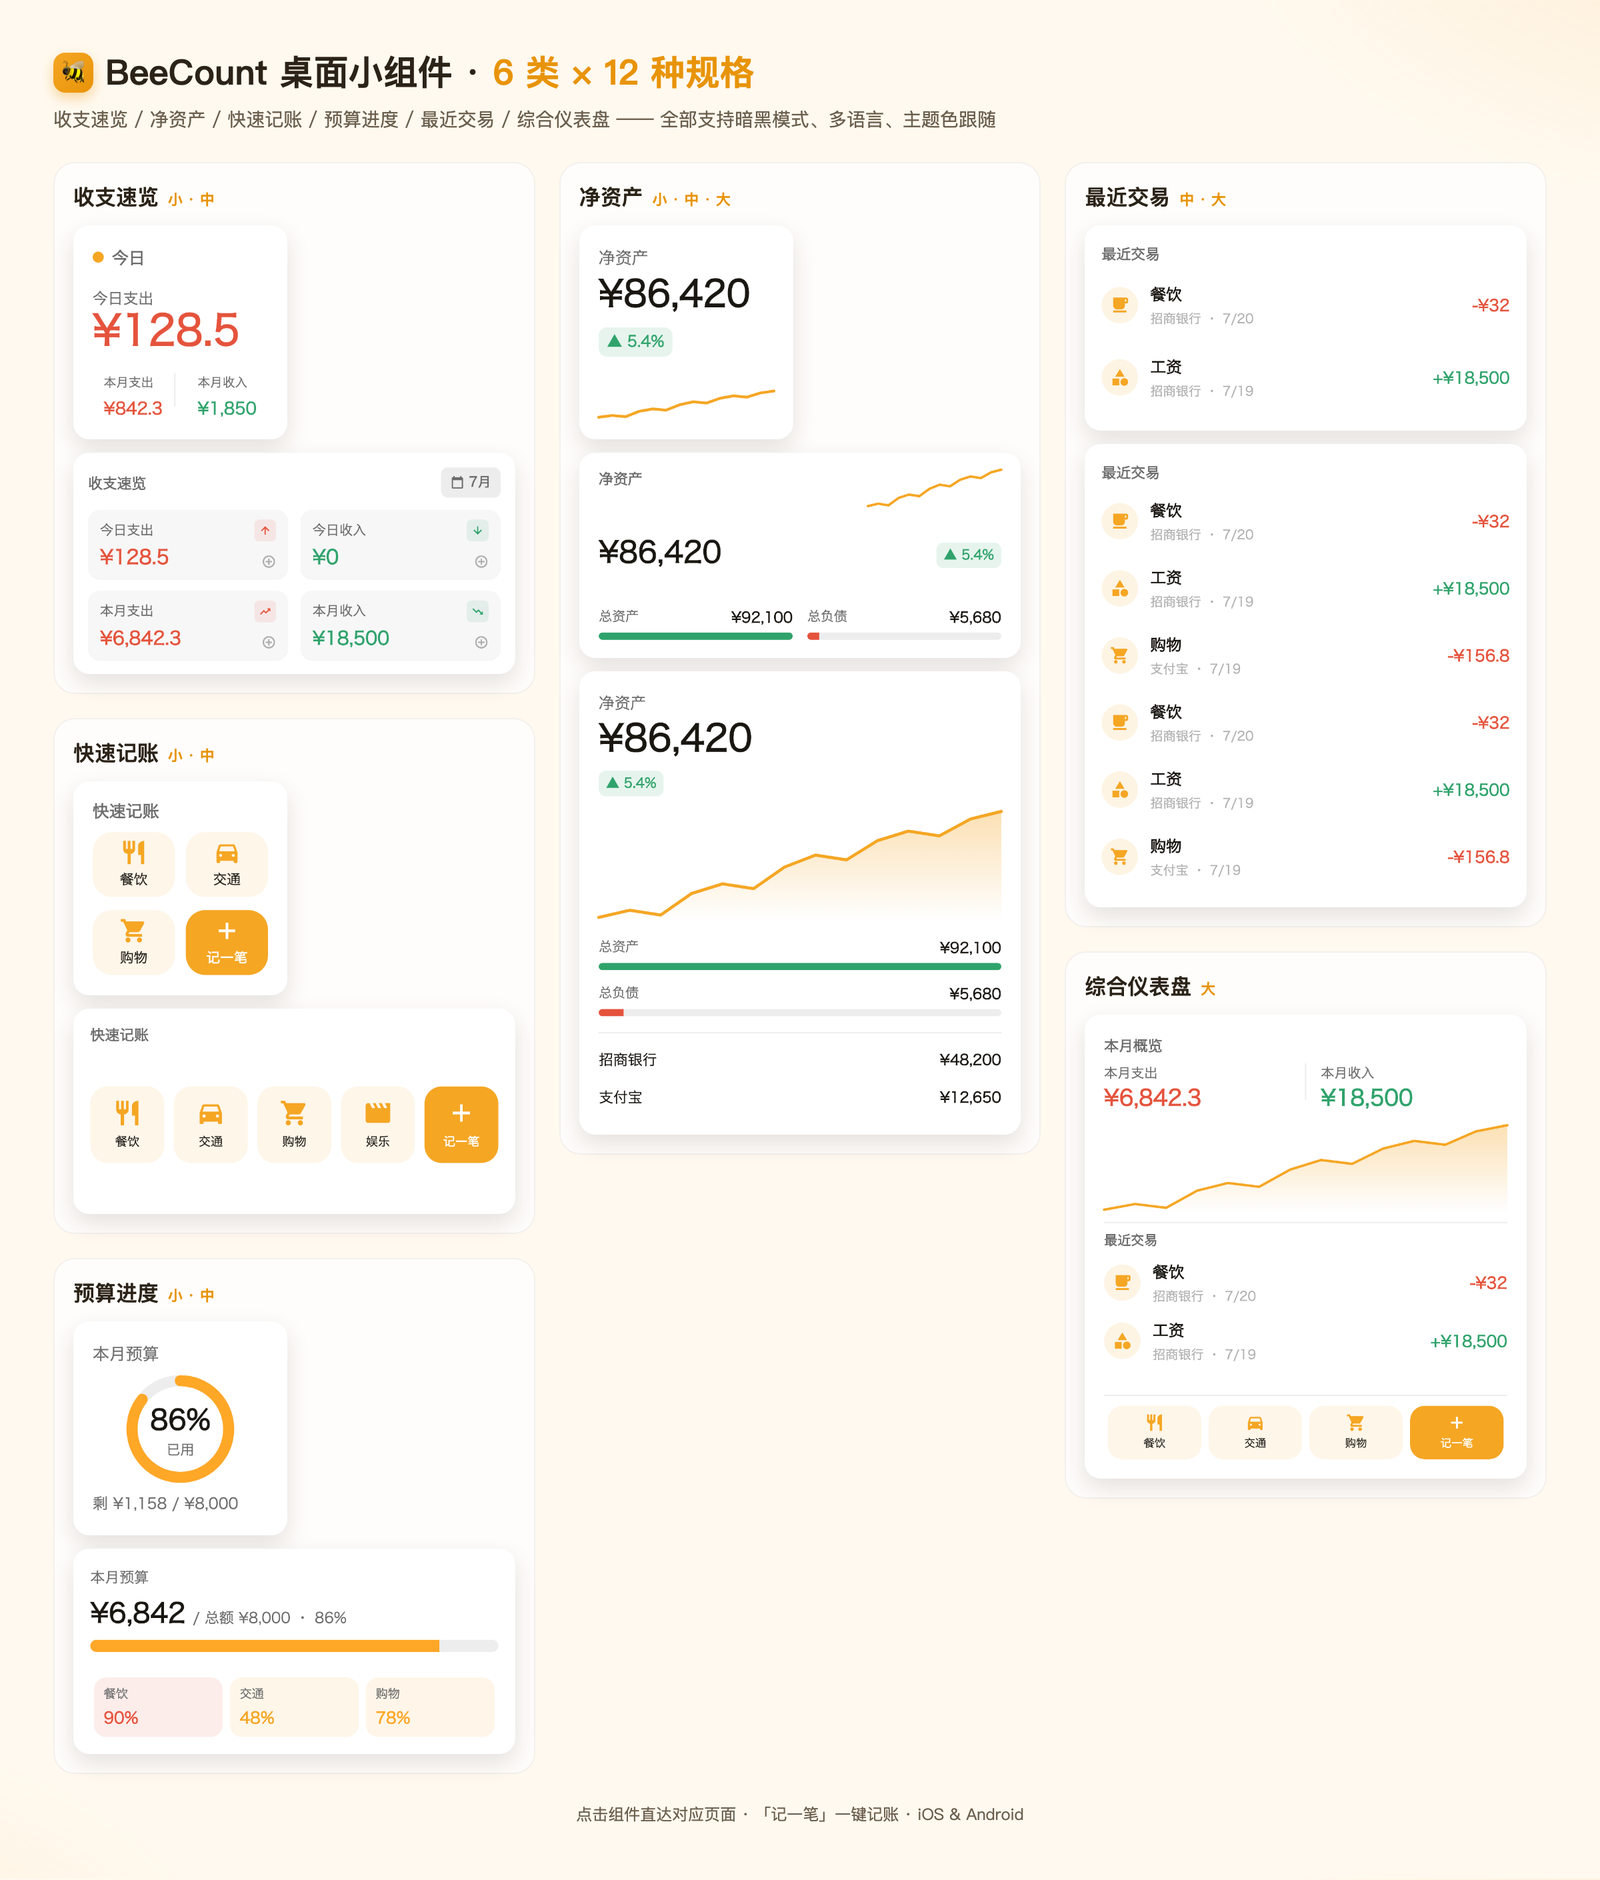
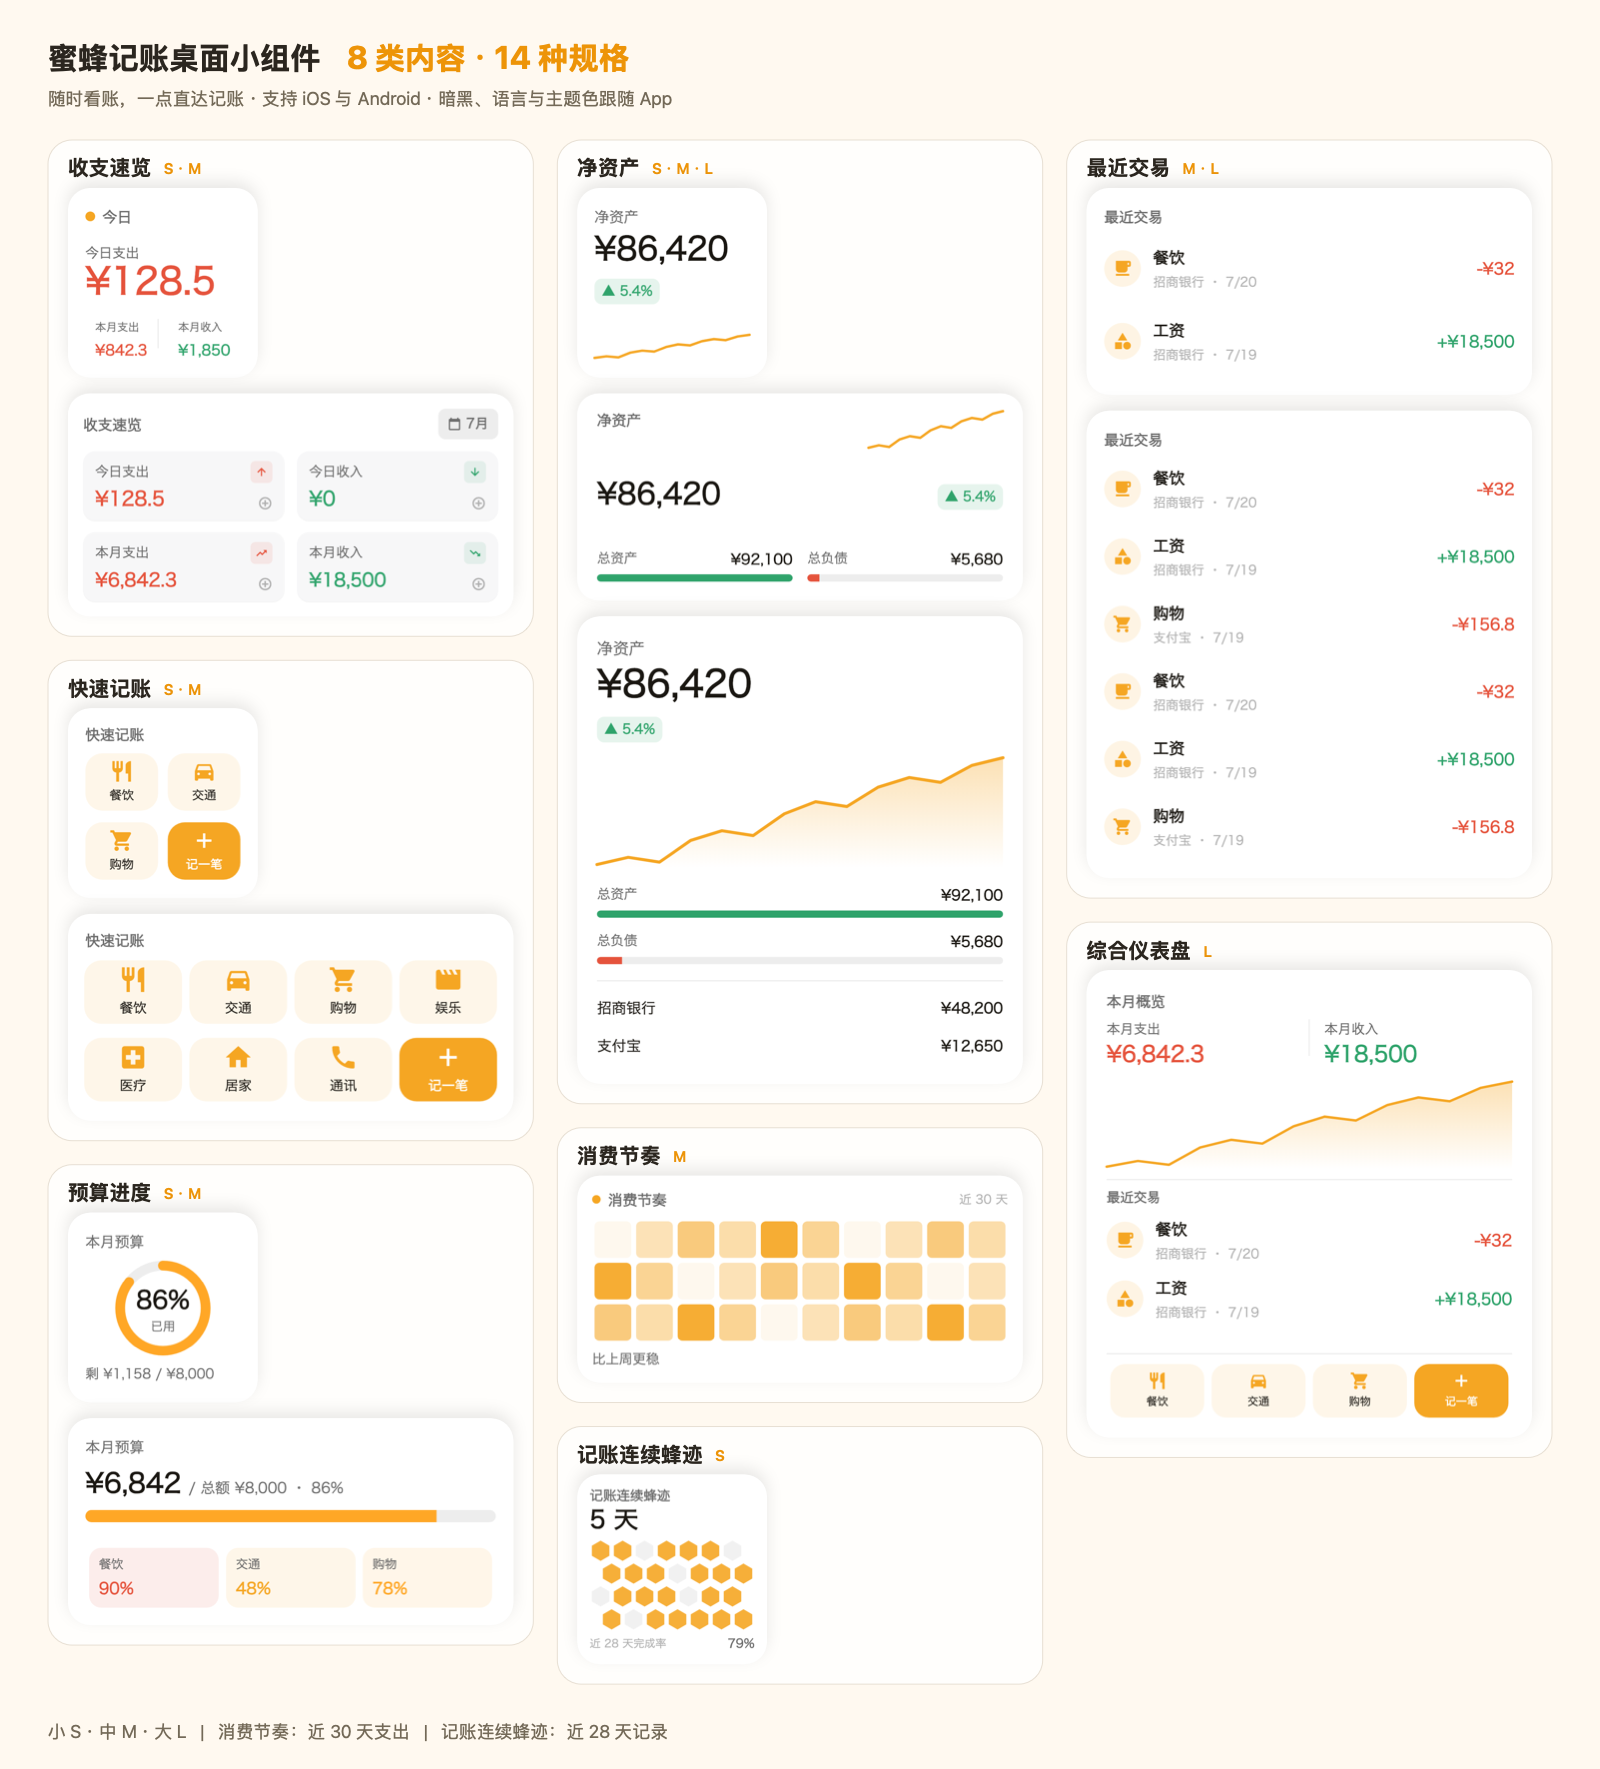
docs: 更新中英文小组件全家福与规格说明

diff --git a/demo/widgets/generate_showcase.swift b/demo/widgets/generate_showcase.swift
@@ -1,0 +1,164 @@
+// 在 macOS 的项目根目录执行：swift demo/widgets/generate_showcase.swift
+// 直接排版扩展内的真实小组件预览，不重绘组件 UI。
+// 新增类型或尺寸后更新 columns；标题数量由目录自动计算。
+import AppKit
+
+struct WidgetGroup {
+    let zh: String
+    let en: String
+    let sizes: String
+    let assets: [String]
+}
+
+let columns: [[WidgetGroup]] = [
+    [
+        .init(zh: "收支速览", en: "Overview", sizes: "S · M",
+              assets: ["glance_small", "glance"]),
+        .init(zh: "快速记账", en: "Quick Add", sizes: "S · M",
+              assets: ["quickadd", "quickadd_medium"]),
+        .init(zh: "预算进度", en: "Budget", sizes: "S · M",
+              assets: ["budget", "budget_medium"]),
+    ],
+    [
+        .init(zh: "净资产", en: "Net Assets", sizes: "S · M · L",
+              assets: ["networth_small", "networth", "networth_large"]),
+        .init(zh: "消费节奏", en: "Spending Rhythm", sizes: "M",
+              assets: ["consumption_rhythm"]),
+        .init(zh: "记账连续蜂迹", en: "Record Bee Trail", sizes: "S",
+              assets: ["bee_trail"]),
+    ],
+    [
+        .init(zh: "最近交易", en: "Recent Transactions", sizes: "M · L",
+              assets: ["recent", "recent_large"]),
+        .init(zh: "综合仪表盘", en: "Dashboard", sizes: "L",
+              assets: ["dashboard"]),
+    ],
+]
+
+let repo = URL(fileURLWithPath: #filePath).deletingLastPathComponent()
+    .deletingLastPathComponent().deletingLastPathComponent()
+let source = repo.appendingPathComponent("ios/BeeCountWidget/Previews")
+let output = repo.appendingPathComponent("demo/widgets")
+let groups = columns.flatMap { $0 }
+let variants = groups.reduce(0) { $0 + $1.assets.count }
+let canvasWidth: CGFloat = 1600
+let margin: CGFloat = 48
+let gap: CGFloat = 24
+let cardWidth = (canvasWidth - margin * 2 - gap * 2) / 3
+let inset: CGFloat = 20
+let innerWidth = cardWidth - inset * 2
+let ink = NSColor(srgbRed: 0.17, green: 0.15, blue: 0.12, alpha: 1)
+let muted = NSColor(srgbRed: 0.45, green: 0.41, blue: 0.34, alpha: 1)
+let honey = NSColor(srgbRed: 0.93, green: 0.58, blue: 0.03, alpha: 1)
+
+func text(_ string: String, x: CGFloat, y: CGFloat, size: CGFloat,
+          color: NSColor = ink, weight: NSFont.Weight = .regular) {
+    (string as NSString).draw(at: .init(x: x, y: y), withAttributes: [
+        .font: NSFont.systemFont(ofSize: size, weight: weight),
+        .foregroundColor: color,
+    ])
+}
+
+for lang in ["zh", "en"] {
+    var previews: [String: NSImage] = [:]
+    for group in groups {
+        for asset in group.assets {
+            let url = source.appendingPathComponent("widget_preview_\(asset)_\(lang).png")
+            guard let image = NSImage(contentsOf: url) else {
+                fatalError("缺少预览素材：\(url.path)")
+            }
+            previews[asset] = image
+        }
+    }
+    func displaySize(_ asset: String) -> NSSize {
+        let image = previews[asset]!
+        let isSmall = abs(image.size.width - image.size.height) < 1
+        let width = isSmall ? innerWidth * 155 / 364 : innerWidth
+        return .init(width: width, height: width * image.size.height / image.size.width)
+    }
+    func cardHeight(_ group: WidgetGroup) -> CGFloat {
+        48 + group.assets.reduce(CGFloat(0)) { $0 + displaySize($1).height }
+            + CGFloat(group.assets.count - 1) * 16 + inset
+    }
+    let tallest = columns.map { column in
+        column.reduce(CGFloat(0)) { $0 + cardHeight($1) }
+            + CGFloat(column.count - 1) * gap
+    }.max()!
+    let canvasHeight = ceil(140 + tallest + 84)
+    guard let bitmap = NSBitmapImageRep(bitmapDataPlanes: nil,
+            pixelsWide: Int(canvasWidth), pixelsHigh: Int(canvasHeight),
+            bitsPerSample: 8, samplesPerPixel: 4, hasAlpha: true,
+            isPlanar: false, colorSpaceName: .deviceRGB, bytesPerRow: 0,
+            bitsPerPixel: 0), let context = NSGraphicsContext(bitmapImageRep: bitmap) else {
+        fatalError("无法创建画布")
+    }
+    NSGraphicsContext.saveGraphicsState()
+    let cg = context.cgContext
+    cg.translateBy(x: 0, y: canvasHeight)
+    cg.scaleBy(x: 1, y: -1)
+    NSGraphicsContext.current = NSGraphicsContext(cgContext: cg, flipped: true)
+    NSColor(srgbRed: 1, green: 0.975, blue: 0.94, alpha: 1).setFill()
+    NSBezierPath(rect: .init(x: 0, y: 0, width: canvasWidth, height: canvasHeight)).fill()
+
+    let title = lang == "zh" ? "蜜蜂记账桌面小组件" : "BeeCount Home Widgets"
+    let count = lang == "zh" ? "\(groups.count) 类内容 · \(variants) 种规格"
+                            : "\(groups.count) types · \(variants) variants"
+    text(title, x: margin, y: 38, size: 32, weight: .bold)
+    let titleWidth = (title as NSString).size(withAttributes: [
+        .font: NSFont.systemFont(ofSize: 32, weight: .bold),
+    ]).width
+    text(count, x: margin + titleWidth + 26, y: 38, size: 32, color: honey, weight: .bold)
+    text(lang == "zh" ? "随时看账，一点直达记账 · 支持 iOS 与 Android · 暗黑、语言与主题色跟随 App"
+                     : "Your ledger at a glance, one tap to record · iOS & Android · Dark mode, language & theme aware",
+         x: margin, y: 88, size: 18, color: muted)
+
+    for (columnIndex, column) in columns.enumerated() {
+        let x = margin + CGFloat(columnIndex) * (cardWidth + gap)
+        var y: CGFloat = 140
+        for group in column {
+            let height = cardHeight(group)
+            let card = NSBezierPath(roundedRect: .init(x: x, y: y,
+                    width: cardWidth, height: height), xRadius: 24, yRadius: 24)
+            NSColor.white.withAlphaComponent(0.8).setFill()
+            card.fill()
+            NSColor(srgbRed: 0.91, green: 0.88, blue: 0.83, alpha: 1).setStroke()
+            card.lineWidth = 1
+            card.stroke()
+            let name = lang == "zh" ? group.zh : group.en
+            text(name, x: x + inset, y: y + 14, size: 22, weight: .bold)
+            let nameWidth = (name as NSString).size(withAttributes: [
+                .font: NSFont.systemFont(ofSize: 22, weight: .bold),
+            ]).width
+            text(group.sizes, x: x + inset + nameWidth + 12, y: y + 19,
+                 size: 15, color: honey, weight: .semibold)
+            var imageY = y + 48
+            for asset in group.assets {
+                let size = displaySize(asset)
+                let rect = NSRect(x: x + inset, y: imageY, width: size.width, height: size.height)
+                NSGraphicsContext.saveGraphicsState()
+                let shadow = NSShadow()
+                shadow.shadowColor = NSColor.black.withAlphaComponent(0.09)
+                shadow.shadowBlurRadius = 16
+                shadow.shadowOffset = .init(width: 0, height: 6)
+                shadow.set()
+                NSColor.white.setFill()
+                NSBezierPath(roundedRect: rect, xRadius: 22, yRadius: 22).fill()
+                NSGraphicsContext.restoreGraphicsState()
+                previews[asset]!.draw(in: rect, from: .zero, operation: .sourceOver,
+                    fraction: 1, respectFlipped: true, hints: [.interpolation: NSImageInterpolation.high])
+                imageY += size.height + 16
+            }
+            y += height + gap
+        }
+    }
+    text(lang == "zh" ? "小 S · 中 M · 大 L   |   消费节奏：近 30 天支出   |   记账连续蜂迹：近 28 天记录"
+                     : "S · Small   M · Medium   L · Large   |   Rhythm: 30-day spending   |   Bee Trail: 28-day records",
+         x: margin, y: canvasHeight - 48, size: 18, color: muted)
+    NSGraphicsContext.restoreGraphicsState()
+    guard let png = bitmap.representation(using: .png, properties: [:]) else {
+        fatalError("无法编码 PNG")
+    }
+    let destination = output.appendingPathComponent("widgets-showcase-\(lang).png")
+    try png.write(to: destination)
+    print("\(destination.lastPathComponent)：\(groups.count) 类、\(variants) 种规格，\(Int(canvasWidth))×\(Int(canvasHeight))")
+}

diff --git a/README_EN.md b/README_EN.md
@@ -87,7 +87,7 @@ A lightweight, open-source, privacy-first **personal finance** and **expense tra
 
 - **Dark mode** — Pure black + theme accent borders, OLED-friendly
 - **Multi-language** — official Simplified/Traditional Chinese & English, community-contributed Korean, with localized formatting
-- **Home widgets** — 6 types × 12 variants (overview / net assets / quick add / budget / recent / dashboard), dark-mode, multi-language & theme-color aware, [see the full lineup](#home-widgets)
+- **Home widgets** — 8 types and 14 variants (overview / net assets / quick add / budget / recent / dashboard / Spending Rhythm / Record Bee Trail), dark-mode, multi-language & theme-color aware, [see the full lineup](#home-widgets)
 - **Theme customization** — Multiple primary colors
 
 </details>
@@ -105,13 +105,13 @@ A lightweight, open-source, privacy-first **personal finance** and **expense tra
 
 ### Home Widgets
 
-6 content types × 12 variants — check your books and add records right from the home screen:
+8 content types and 14 variants — check your books and add records right from the home screen:
 
 <details>
-<summary>View the widget lineup (6 types × 12 variants)</summary>
+<summary>View the widget lineup (8 types, 14 variants)</summary>
 
 <div align="center">
-  <img src="demo/widgets/widgets-showcase-en.png" alt="Home widget lineup: overview / net assets / quick add / budget / recent transactions / dashboard" width="820" />
+  <img src="demo/widgets/widgets-showcase-en.png" alt="Home widget lineup: overview / net assets / quick add / budget / recent transactions / dashboard / Spending Rhythm / Record Bee Trail" width="820" />
 </div>
 
 </details>

diff --git a/README.md b/README.md
@@ -87,7 +87,7 @@
 
 - **暗黑模式** — 纯黑 + 主题色边框,OLED 友好
 - **多语言** — 官方简中 / 繁中 / English,社区贡献韩语,本地化日期/数字格式
-- **桌面小组件** — 6 类 × 12 种规格(收支速览/净资产/快速记账/预算/最近交易/仪表盘),暗黑/多语言/主题色全跟随,[全家福预览](#桌面小组件)
+- **桌面小组件** — 8 类内容、14 种规格(收支速览/净资产/快速记账/预算/最近交易/仪表盘/消费节奏/记账连续蜂迹),暗黑/多语言/主题色全跟随,[全家福预览](#桌面小组件)
 - **主题装扮** — 多主题色
 
 </details>
@@ -105,13 +105,13 @@
 
 ### 桌面小组件
 
-6 类内容 × 12 种规格,不打开 App 也能看账、一点直达记账:
+8 类内容、14 种规格,不打开 App 也能看账、一点直达记账:
 
 <details>
-<summary>查看桌面小组件全家福(6 类 × 12 规格)</summary>
+<summary>查看桌面小组件全家福(8 类、14 规格)</summary>
 
 <div align="center">
-  <img src="demo/widgets/widgets-showcase-zh.png" alt="桌面小组件全家福:收支速览 / 净资产 / 快速记账 / 预算进度 / 最近交易 / 综合仪表盘" width="820" />
+  <img src="demo/widgets/widgets-showcase-zh.png" alt="桌面小组件全家福:收支速览 / 净资产 / 快速记账 / 预算进度 / 最近交易 / 综合仪表盘 / 消费节奏 / 记账连续蜂迹" width="820" />
 </div>
 
 </details>
